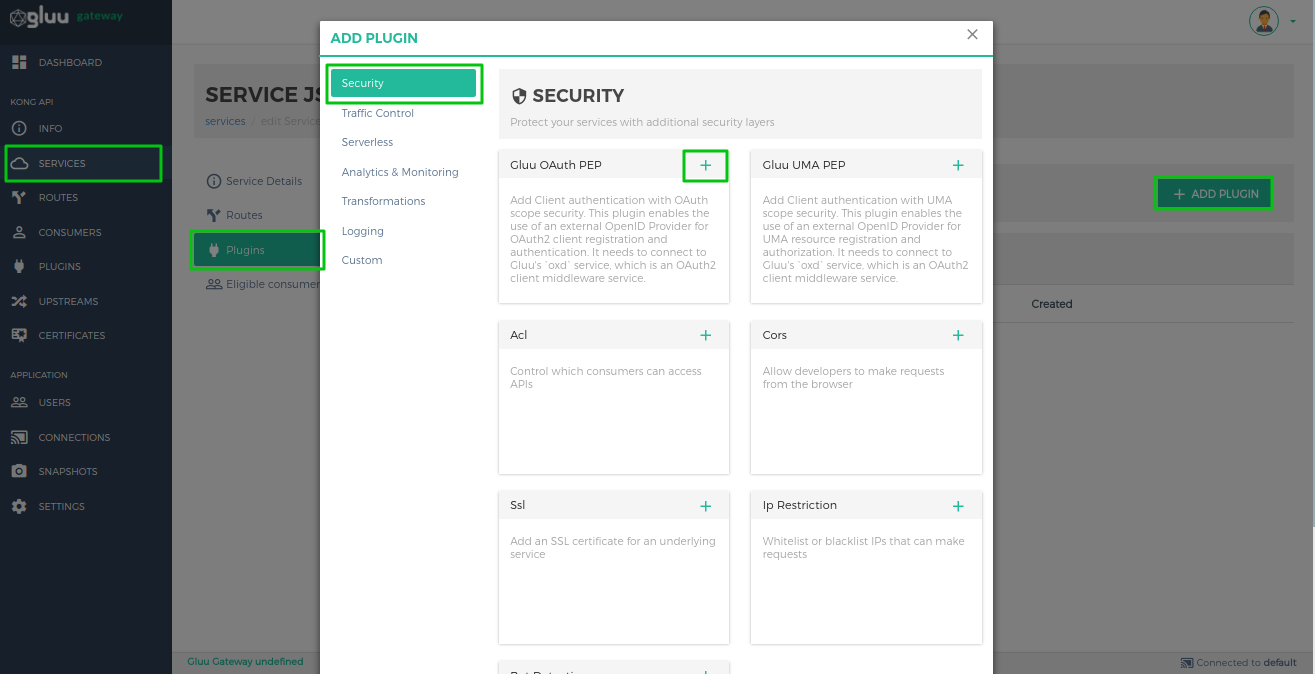
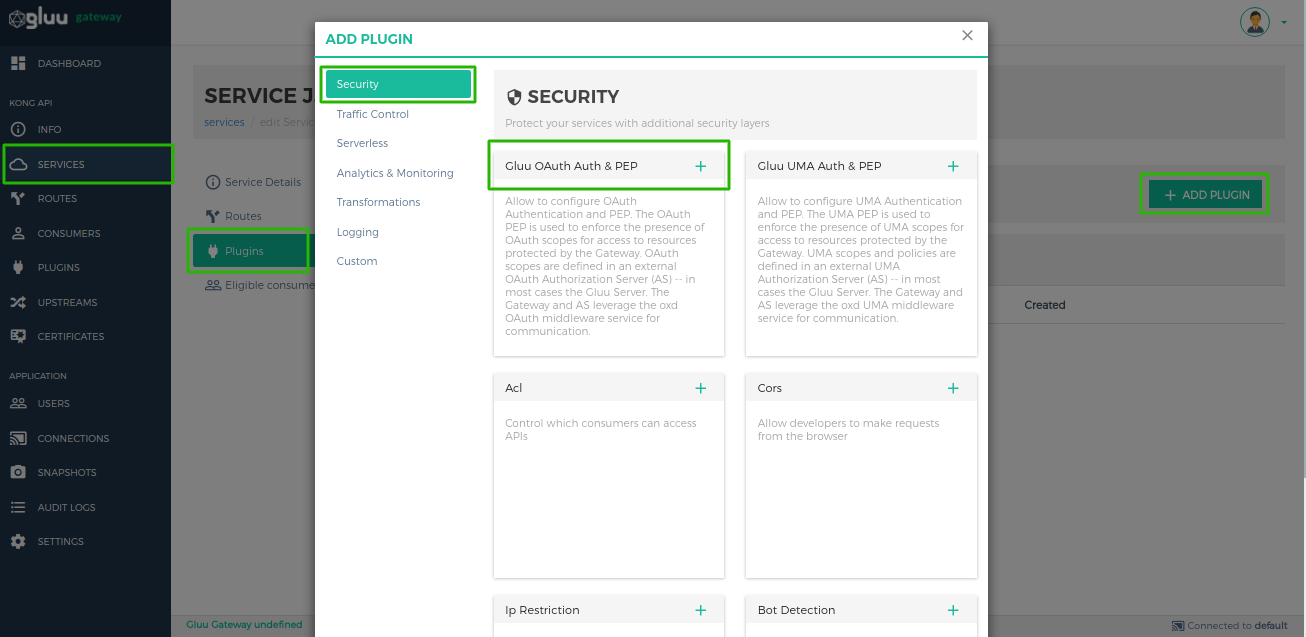
Update gluu oauth auth and oauth pep section

diff --git a/docs/source/plugin/gluu-oauth-auth-pep.md b/docs/source/plugin/gluu-oauth-auth-pep.md
@@ -56,7 +56,7 @@ Clicking on the **+** icon will bring up the below form.
 !!! important
     If you don't wanna add `gluu-oauth-pep` plugin then disable button which is on the top.
 
-![11_path_add_oauth_service](../img/11_oauth_service.png)
+![11_path_add_oauth_service](../img/11_add_oauth_pep_form.png)
 
 #### Configure a Service Plugin using Kong Admin API
 
@@ -166,7 +166,7 @@ Use the [Manage Route](../admin-gui/#manage-route) section in the GG UI to enabl
 ![12_path_oauth_route](../img/12_path_oauth_route.png)
 
 Clicking on the **+** icon will bring up the below form.
-![11_path_add_oauth_service](../img/11_oauth_service.png)
+![11_path_add_oauth_service](../img/11_add_oauth_pep_form.png)
 
 
 #### Configure Route Plugin using Kong Admin API
@@ -251,7 +251,7 @@ Use the [Plugin section](../admin-gui/#add-plugin) in the GG UI to enable the Gl
 ![5_plugins_add](../img/5_plugins_add.png)
 
 Clicking on the **+** icon will bring up the below form.
-![11_path_add_oauth_service](../img/11_oauth_service.png)
+![11_path_add_oauth_service](../img/11_add_oauth_pep_form.png)
 
 #### Configure a Global Plugin using Kong Admin API
 
@@ -349,6 +349,7 @@ The following parameters can be used in this plugin's configuration.
 |**client_secret**|| An existing client secret, used to get protection access token to access the introspection API. Required if an existing oxd ID is provided.|
 |**oauth_scope_expression**|| Used to add scope security on an OAuth scope token.|
 |**deny_by_default**| true | For paths not protected by OAuth scope expressions. If true, denies unprotected paths.|
+|**method_path_tree**||It is for plugin internal use. We use it for tree level matching for dynamic paths which registered in `uma_scope_expression`|
 
 !!! Note
     GG UI can create a dynamic client. However, if the Kong Admin API is used for plugin configuration, it requires an existing client using the oxd API, then passing the client's credentials to the Gluu-OAuth-PEP plugin.
@@ -433,34 +434,36 @@ The result is `true`, so the request is allowed.
 
 #### Dynamic Resource Protection
 
-To protect a dynamic resource with UMA or OAuth scopes, secure the parent path. For example, securing `folder` with a chosen scope will secure both `/folder` and `/folder/[id]`. Any protection on the parent will be applied to its children, unless different protection is explicitly defined.
+There are 3 elements to make more dynamic path registration and protection:
 
-Example use cases for different resource security rules:
+- ? match any one path element
+- ?? match zero or more path elements
+- {regexp} - match single path element against PCRE
 
-- Rule1 for path GET /root                  `{scope: a and b}`
+The priority for the elements are:
 
-- Rule2 for path GET /root/folder1          `{scope: c}`
+1. Exact match
+1. Regexp match
+1. ?
+1. ??
 
-- Rule3 for path GET /root/folder1/folder2  `{scope: d}`
+!!! Note
+    slash(/) is required before multiple wildcards placeholder.
+    
+Examples: 
 
-```
-GET /root                                  --> Apply Rule1
-GET /root/1                                --> Apply Rule1
-GET /root/one                              --> Apply Rule1
-GET /root/one/two                          --> Apply Rule1
-GET /root/two?id=df4edfdf                  --> Apply Rule1
+Assume that below all path is register in one plugin
 
-GET /root/folder1                          --> Apply Rule2
-GET /root/folder1/1                        --> Apply Rule2
-GET /root/folder1?id=dfdf454gtfg           --> Apply Rule2
-GET /root/folder1/one/two                  --> Apply Rule2
-GET /root/folder1/one/two/treww?id=w4354f  --> Apply Rule2
-
-GET /root/folder1/folder2/1                --> Apply Rule3
-GET /root/folder1/folder2/one/two          --> Apply Rule3
-GET /root/folder1/folder2/dsd545df         --> Apply Rule3
-GET /root/folder1/folder2/one?id=fdfdf     --> Apply Rule3
-```
+| Register Path | Allow path | Deny path |
+|---------------|------------|-----------|
+| `/folder/file.ext` | <ul><li>/folder/file.ext</li></ul> | <ul><li>/folder/file</li></ul> |
+| `/folder/?/file` | <ul><li>/folder/123/file</li> <li>/folder/xxx/file</li></ul> | |
+| `/path/??` | <ul><li>/path/</li> <li>/path/xxx</li> <li>/path/xxx/yyy/file</li></ul> | <ul><li>/path - Need slash at last</li></ul> |
+| `/path/??/image.jpg` | <ul><li>/path/one/two/image.jpg</li> <li>/path/image.jpg</li></ul> | |
+| `/path/?/image.jpg` | <ul><li>/path/xxx/image.jpg - ? has higher priority than ??</li></ul> | |
+| `/path/{abc|xyz}/image.jpg` | <ul><li>/path/abc/image.jpg</li> <li>/path/xyz/image.jpg</li></ul> | |
+| `/users/?/{todos|photos}` | <ul><li>/users/123/todos</li> <li>/users/xxx/photos</li></ul> | |
+| `/users/?/{todos|photos}/?` | <ul><li>/users/123/todos/</li> <li>/users/123/todos/321</li> <li>/users/123/photos/321</li></ul> | |
 
 ## Usage
 

diff --git a/docs/source/plugin/gluu-openid-connect-uma-pep.md b/docs/source/plugin/gluu-openid-connect-uma-pep.md
@@ -180,7 +180,7 @@ Here is a list of all the parameters which can be used in this plugin's configur
 |**obtain_rpt**|false|It is used to get RPT when you configure `gluu-openid-connect` plugin with `gluu-uma-pep`|
 |**claims_redirect_path**||Claims redirect URL in claim gathering flow for your OP Client. You just need to set path here like `/claim-callback` but you need to register OP Client with full URL like `https://kong.proxy.com/claim-callback`. GG UI creates OP client for you and also configure the `gluu-openid-connect` and `gluu-uma-pep` plugin.|
 |**redirect_claim_gathering_url**|false|It used to tell plugin that if `need_info` response comes in claim gathering situation then redirect it for claim gathering.|
-
+|**method_path_tree**||It is for plugin internal use. We use it for tree level matching for dynamic paths which registered in `uma_scope_expression`| 
 
 !!! Note
     GG UI can create a dynamic client. However, if the Kong Admin API is used for plugin configuration, it requires an existing client using the oxd API, then passing the client's credentials to the Gluu-OpenID-Connect and Gluu-UMA-PEP plugin.
